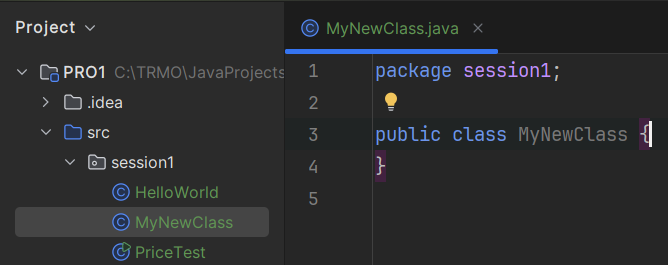
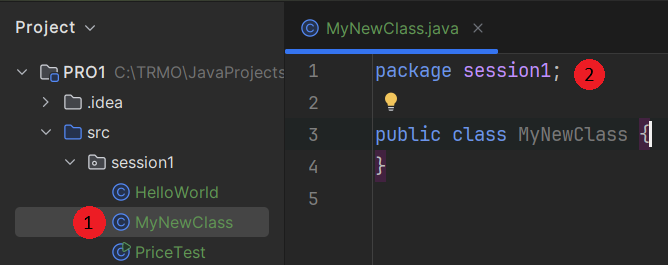
updating

Changed region(s): [[0.0898, 0.7547, 0.1796, 0.9057], [0.8383, 0.2113, 0.9281, 0.3623]]

diff --git a/Articles/PRO1/Session 1 Learning Path/004 Print.md b/Articles/PRO1/Session 1 Learning Path/004 Print.md
@@ -1,38 +1,50 @@
 # Printing to console
 
-Quite often, you will want to print something to the console. This is useful for showing some information to the developer. For the majority of PRO1 this is how you will see the output of your code. 
+Quite often, you will want to print something to the console. This is a good place to start when you are learning to program, as it can show you what is happening inside your code. This is useful for showing some information to the developer. For the majority of PRO1 this is how you will see the output of your code. 
 
 Towards the end, we will add an actual Graphical User Interface (GUI) to the programs we create.
 
-The command to print something to the console is `System.out.println()`.
+The command (method call) to print something to the console is `System.out.println( )`.
 
-Between the parentheses `()` you can put any text you want to print.\
-Text is surrounded by double quotes `"`.
+Between the parentheses `( )` you can put any text you want to print.\
+Text is surrounded by double quotes `" "`. For example:
 
 ```java
 "Hello, World!"
 ```
 
-Each time you execute `System.out.println()`, it will print the text to the console and then move to a new line.
+Each time you execute `System.out.println()`, it will print the text to the console and then move to a new line. If you do not provide any text between the parentheses, it will print an empty line.
 
 ## Exercise 1: Print a message
 
-Create a new class called `PrintMessage` and write a program that prints the message "Hello, World!" to the console.
+Create a new class called `PrintHelloWorld` and write a program that prints the message "Hello, World!" to the console.
 
 
 <hint title="Hint 1">
 
 Create a new class in the `session1` package.
 
+```
+📁src/
+└── 📁session1/
+    └── 📄PrintHelloWorld.java
+```
+
 </hint>
 
 <hint title="Hint 2">
 
-Inside the class, write a `main` method.
+Inside the class, write a `main` method, I recommend using the simplified syntax.
 
 </hint>
 
 <hint title="Hint 3">
+
+```java
+void main() {
+    // Your code here
+}
+```
 
 Inside the `main` method body, use the `System.out.println` method to print "Hello, World!" to the console.
 
@@ -53,6 +65,8 @@ When you run the program, the console should automatically open and display the 
 </hint>
 
 <hint title="Video solution">
+
+This is an older video, and I use the old main method syntax. 
 
 <video src="https://youtu.be/Op6m6Wp_y2c"></video>
 

diff --git a/Articles/PRO1/Session 1 Learning Path/006 Variables.md b/Articles/PRO1/Session 1 Learning Path/006 Variables.md
@@ -1,6 +1,12 @@
 # Variables
 
-Every program works with data, and in Java, we use variables to store and manipulate this data. 
+Every program works with data, and in Java, we use *variables* to store and manipulate this data. 
+
+Think of a variable as a box. You can put things inside the box, and you can take things out of the box.
+
+![](Resources/VariableAsBox.png)
+
+
 
 You may be familiar with a similar concept from mathematics, where a variable can represent a number or an unknown value. In programming, variables can hold different types of data, such as numbers, text, or even more complex objects (introduced later in the course).
 
@@ -10,8 +16,10 @@ In this example, `x` is a variable that holds the value `5`. You can think of it
 
 You can pass the box around to different people. They can look inside, and find the value `5`.
 
-In Java, we can declare variables, but we must also define its type. The type of a variable determines what kind of data it can hold.\
-For example, if you want to store a whole number (1, 2, 3, etc), you would use the `int` type, and if you want to store a decimal number, you could use the `double` type.\
+In Java, we can declare variables, but we must also define its "type". The type of a variable determines what kind of data it can hold.\
+At home, you might have a box for your socks, and a box for your shoes. You cannot put shoes into the sock box, and you cannot put socks into the shoe box.
+
+For example, if you want to store a whole number (1, 2, 3, etc), you would use the `int` type, and if you want to store a decimal number (3.14, 1.5, etc), you could use the `double` type.\
 If you want to store some text, you would use the `String` type.
 
 Here is how you can declare a variable in Java:
@@ -27,5 +35,5 @@ In this example:
 - `double y = 3.14;` declares a variable `y` of type `double` and assigns it the value `3.14`.
 - `String name = "Alice";` declares a variable `name` of type `String` and assigns it the value `"Alice"`.
 
-We use the `=` operator to assign a value to a variable. Or put a value into a box.\
+We use the `=` operator to assign a value to a variable. Or, put a value into the box.\
 This is called an **assignment**. The variable type and name comes before the `=` sign, and the value comes after it. We assign the value to the variable.

diff --git a/Articles/PRO1/Session 1 Learning Path/007 Naming.md b/Articles/PRO1/Session 1 Learning Path/007 Naming.md
@@ -4,7 +4,7 @@ When naming variables in Java, there are some rules you must follow:
 1. **Start with a letter**: Variable names must start with a letter (a-z, A-Z), underscore (_), or dollar sign ($).
 2. **Followed by letters, digits, underscores, or dollar signs**: After the first character, you can use letters (a-z, A-Z), digits (0-9), underscores (_).
 3. **No spaces**: Variable names cannot contain spaces.
-4. **Case-sensitive**: Variable names are case-sensitive, meaning `myVariable` and `myvariable` are considered different variables.
+4. **Case-sensitive**: Variable names are case-sensitive, meaning `myVariable` and `myvariable` are considered different variables (notice the uppercase and lowercase "v").
 
 ## Naming conventions
 Java has some conventions for naming variables that help make your code more readable and maintainable. 
@@ -46,3 +46,18 @@ For example:
 ```java
 package com.example.myapp;
 ```
+
+### Method Names
+Method names should be written in **camelCase**, where the first word starts with a lowercase letter and each subsequent word starts with a capital letter.
+
+For example:
+
+```java
+void printHelloWorld() {
+    System.out.println("Hello, World!");
+}
+```
+
+### Other
+
+There are other naming conventions, but these are the most important ones. We will revisit the other naming conventions when relevant.

diff --git a/Articles/PRO1/Session 1 Learning Path/002 Main method.md b/Articles/PRO1/Session 1 Learning Path/002 Main method.md
@@ -14,6 +14,16 @@ public static void main(String[] args) {
 }
 ```
 
+Alternatively, if you are on Java 26 or later, you can use the simplified syntax, which I **strongly recommend**:
+
+```java
+void main() {
+    // Your code here
+}
+```
+
+You don't even need to declare the class!
+
 Between the curly braces `{..}` is where you will write the code that you want to execute when the program runs.\
 This part is called the **method body**.
 
@@ -45,6 +55,8 @@ You can also right click the file in the project window, and select run:
 Or you select a specific file (with a main method) in the drop down at the top right, and then the green play button:
 
 ![Running main method](Resources/RunSelectedFile.png)
+
+Be careful with this last option. As you complete exercises, your dropdown will fill up with more and more main methods. It is a common mistake to forget to change the dropdown back to the main method you want to run, and thereby running the wrong code.
 
 There are even more ways, but now you have enough options. It does not matter which you pick.
 

diff --git a/Articles/PRO1/Session 1 Learning Path/003 Classes.md b/Articles/PRO1/Session 1 Learning Path/003 Classes.md
@@ -12,6 +12,6 @@ And the end result looks like this:
 
 ![Creating new class result](Resources/CreateNewClass.png)
 
-Notice a new file is created in the session1 package.
+Notice a new file is created in the session1 package ((1)). Notice also, that the same package name is declared at the top of the file ((2)).
 
-Packages are similar to folders, they are a way to organize your code.
+Packages are essentially folders, they are a way to organize your code. In Java, we just call them packages. If you open a file explorer, you will see that the folder structure inside *src* is the same as the package structure you see in IntelliJ IDEA.

diff --git a/Articles/PRO1/Session 1 Learning Path/005 Comments.md b/Articles/PRO1/Session 1 Learning Path/005 Comments.md
@@ -24,11 +24,9 @@ There are two types of comments in Java:
 Create a new class called `CommentsExample`. In this class, write a main method which prints out to the console. Like this:
 
 ```java
-public class CommentsExample {
-    public static void main(String[] args) {
-        System.out.println("Hello, World!"); 
-        System.out.println("Hello, People!"); 
-    }
+void main() {
+    System.out.println("Hello, World!"); 
+    System.out.println("Hello, People!"); 
 }
 ```
 
